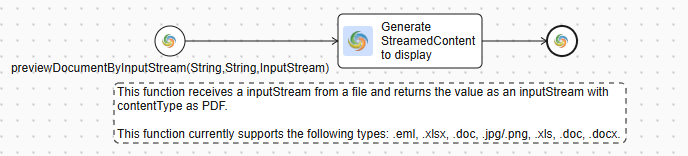
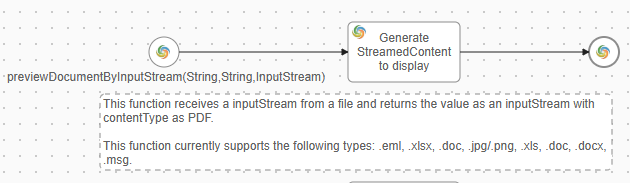
MARP-3165 Update msg extension for v12 (#355)

diff --git a/doc-factory/src/com/axonivy/utils/docfactory/preview/DocumentPreviewService.java b/doc-factory/src/com/axonivy/utils/docfactory/preview/DocumentPreviewService.java
@@ -7,6 +7,7 @@ import java.io.FileInputStream;
 import java.io.IOException;
 import java.io.InputStream;
 import java.nio.file.Files;
+import java.util.List;
 
 import org.primefaces.model.DefaultStreamedContent;
 import org.primefaces.model.StreamedContent;
@@ -17,8 +18,12 @@ import com.aspose.email.MailMessage;
 import com.aspose.words.Document;
 import com.aspose.words.LoadFormat;
 import com.aspose.words.LoadOptions;
+import com.aspose.words.Orientation;
+import com.aspose.words.PageSetup;
 import com.aspose.words.SaveFormat;
+import com.aspose.words.Section;
 
+import ch.ivyteam.ivy.addons.docfactory.DocFactoryConstants;
 import ch.ivyteam.ivy.addons.docfactory.aspose.AsposeProduct;
 import ch.ivyteam.ivy.addons.docfactory.aspose.LicenseLoader;
 import ch.ivyteam.ivy.environment.Ivy;
@@ -29,6 +34,7 @@ import static ch.ivyteam.ivy.addons.docfactory.DocFactoryConstants.XLS_EXTENSION
 import static ch.ivyteam.ivy.addons.docfactory.DocFactoryConstants.DOC_EXTENSION;
 import static ch.ivyteam.ivy.addons.docfactory.DocFactoryConstants.DOCX_EXTENSION;
 import static ch.ivyteam.ivy.addons.docfactory.DocFactoryConstants.EML_EXTENSION;
+import static ch.ivyteam.ivy.addons.docfactory.DocFactoryConstants.MSG_EXTENSION;;
 
 public class DocumentPreviewService {
 
@@ -38,6 +44,10 @@ public class DocumentPreviewService {
 
   public static DocumentPreviewService getInstance() {
     return INSTANCE;
+  }
+
+  public List<String> getSupportedTypeForPreview() {
+    return DocFactoryConstants.SUPPORTED_TYPES_FOR_PREVIEW;
   }
 
   public StreamedContent generateStreamedContent(File file) throws Exception {
@@ -72,7 +82,8 @@ public class DocumentPreviewService {
     } else if (fileName.endsWith(DOC_EXTENSION) || fileName.endsWith(DOCX_EXTENSION)) {
       LicenseLoader.loadLicenseforProduct(AsposeProduct.WORDS);
       content = convertWordToPdfStreamedContent(fileContent, fileName);
-    } else if (fileName.endsWith(EML_EXTENSION)) {
+    } else if (fileName.endsWith(EML_EXTENSION) || fileName.endsWith(MSG_EXTENSION)) {
+      LicenseLoader.loadLicenseforProduct(AsposeProduct.WORDS);
       LicenseLoader.loadLicenseforProduct(AsposeProduct.EMAIL);
       content = convertEmlToPdfStreamedContent(fileContent, fileName);
     } else {
@@ -124,6 +135,10 @@ public class DocumentPreviewService {
 
       try (InputStream mhtmlInput = new ByteArrayInputStream(mhtmlStream.toByteArray())) {
         Document doc = new Document(mhtmlInput);
+        for (Section section : doc.getSections()) {
+          PageSetup pageSetup = section.getPageSetup();
+          pageSetup.setOrientation(Orientation.LANDSCAPE);
+        }
         doc.save(pdfOut, SaveFormat.PDF);
       }
       return convertOutputStreamToStreamedContent(pdfOut, fileName);

diff --git a/doc-factory/src/ch/ivyteam/ivy/addons/docfactory/DocFactoryConstants.java b/doc-factory/src/ch/ivyteam/ivy/addons/docfactory/DocFactoryConstants.java
@@ -1,5 +1,6 @@
 package ch.ivyteam.ivy.addons.docfactory;
 
+import java.util.List;
 import java.util.Locale;
 
 public final class DocFactoryConstants {
@@ -13,6 +14,7 @@ public final class DocFactoryConstants {
   public static final String XLS_EXTENSION = ".xls";
   public static final String XLSX_EXTENSION = ".xlsx";
   public static final String EML_EXTENSION = ".eml";
+  public static final String MSG_EXTENSION = ".msg";
   public static final String PDF_CONTENT_TYPE = "application/pdf";
   public static final String XLSX_CONTENT_TYPE = "application/vnd.openxmlformats-officedocument.spreadsheetml.sheet";
   public static final String WORD_CONTENT_TYPE =
@@ -35,4 +37,7 @@ public final class DocFactoryConstants {
 
   public static final String DEFAULT_FILE_NAME = "defaultDocFactoryFileName";
 
+
+  public static final List<String> SUPPORTED_TYPES_FOR_PREVIEW =
+      List.of(DOC_EXTENSION, DOCX_EXTENSION, XLS_EXTENSION, XLSX_EXTENSION, EML_EXTENSION, MSG_EXTENSION);
 }

diff --git a/doc-factory-doc/source/doc-factory/callable-processes.rst b/doc-factory-doc/source/doc-factory/callable-processes.rst
@@ -203,7 +203,7 @@ is the description of this callable that you can find in the Axon Ivy process fi
 previewDocument
 ^^^^^^^^^^^^^^^
 The function named **previewDocument** allows reading documents with specific types such as:
-``pdf``, ``docx``, ``doc``, ``xlsx``, ``xls``, ``jpeg``, ``jpg``, ``png``, ``eml``, ``txt``, ``log``
+``pdf``, ``docx``, ``doc``, ``xlsx``, ``xls``, ``jpeg``, ``jpg``, ``png``, ``eml``, ``txt``, ``log``, ``msg``
 
 .. figure:: /_static/images/callable-processes-5.png
 
@@ -244,3 +244,7 @@ The function named **previewDocument** allows reading documents with specific ty
    +-----------------+------------+------------------------+---------------------------------------------------------------+
 
 .. figure:: /_static/images/callable-processes-6.png
+
+The function named **getSupportedTypeForPreview** allows getting all types that supported for **previewDocument** function
+
+.. figure:: /_static/images/callable-processes-9.png
